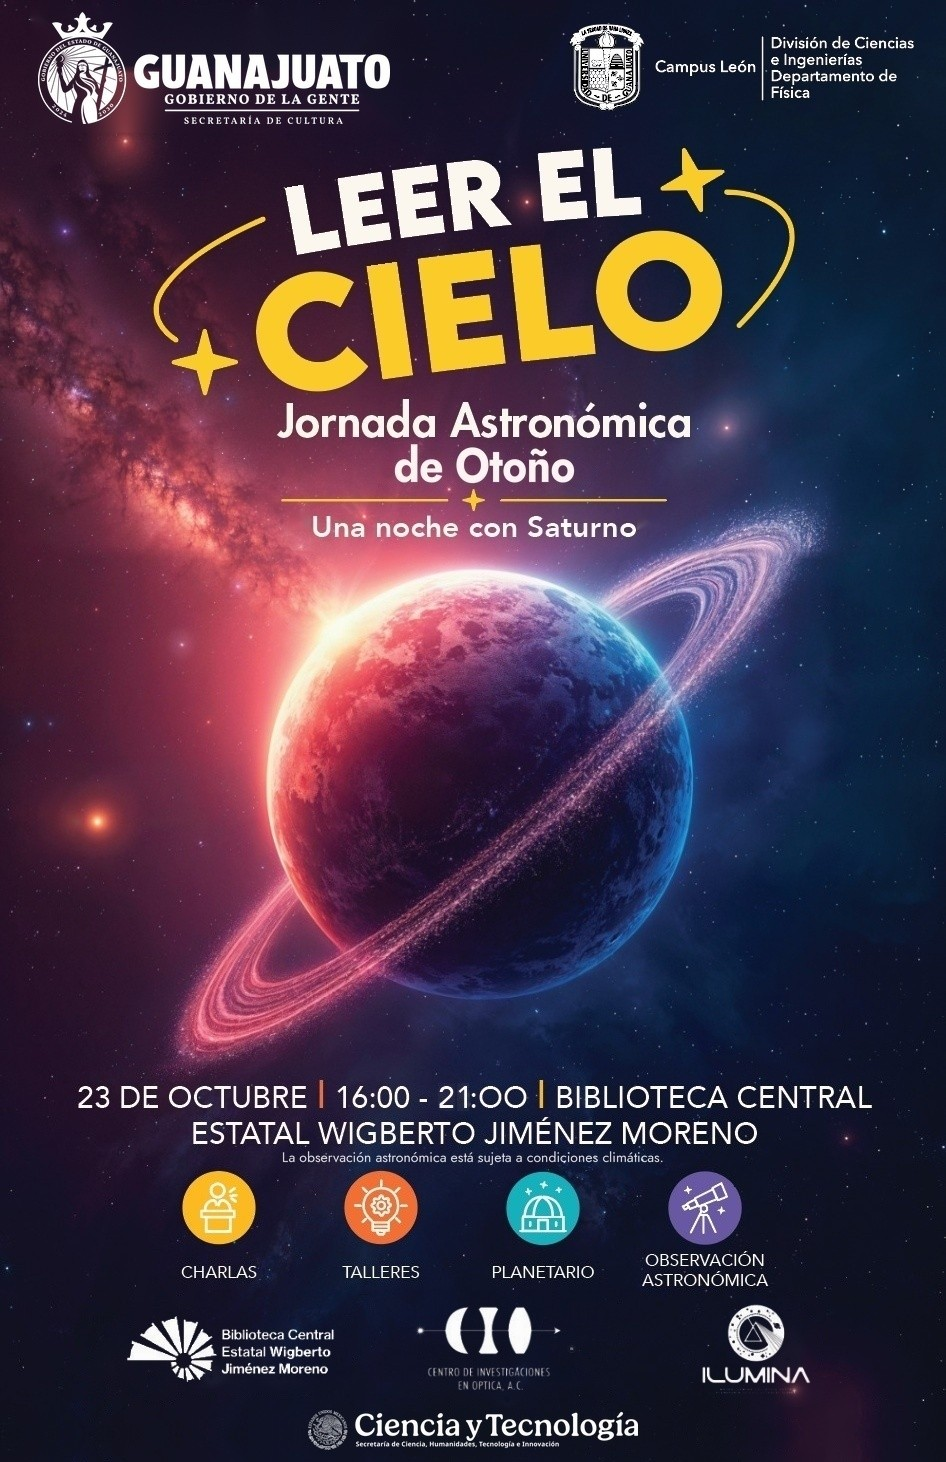
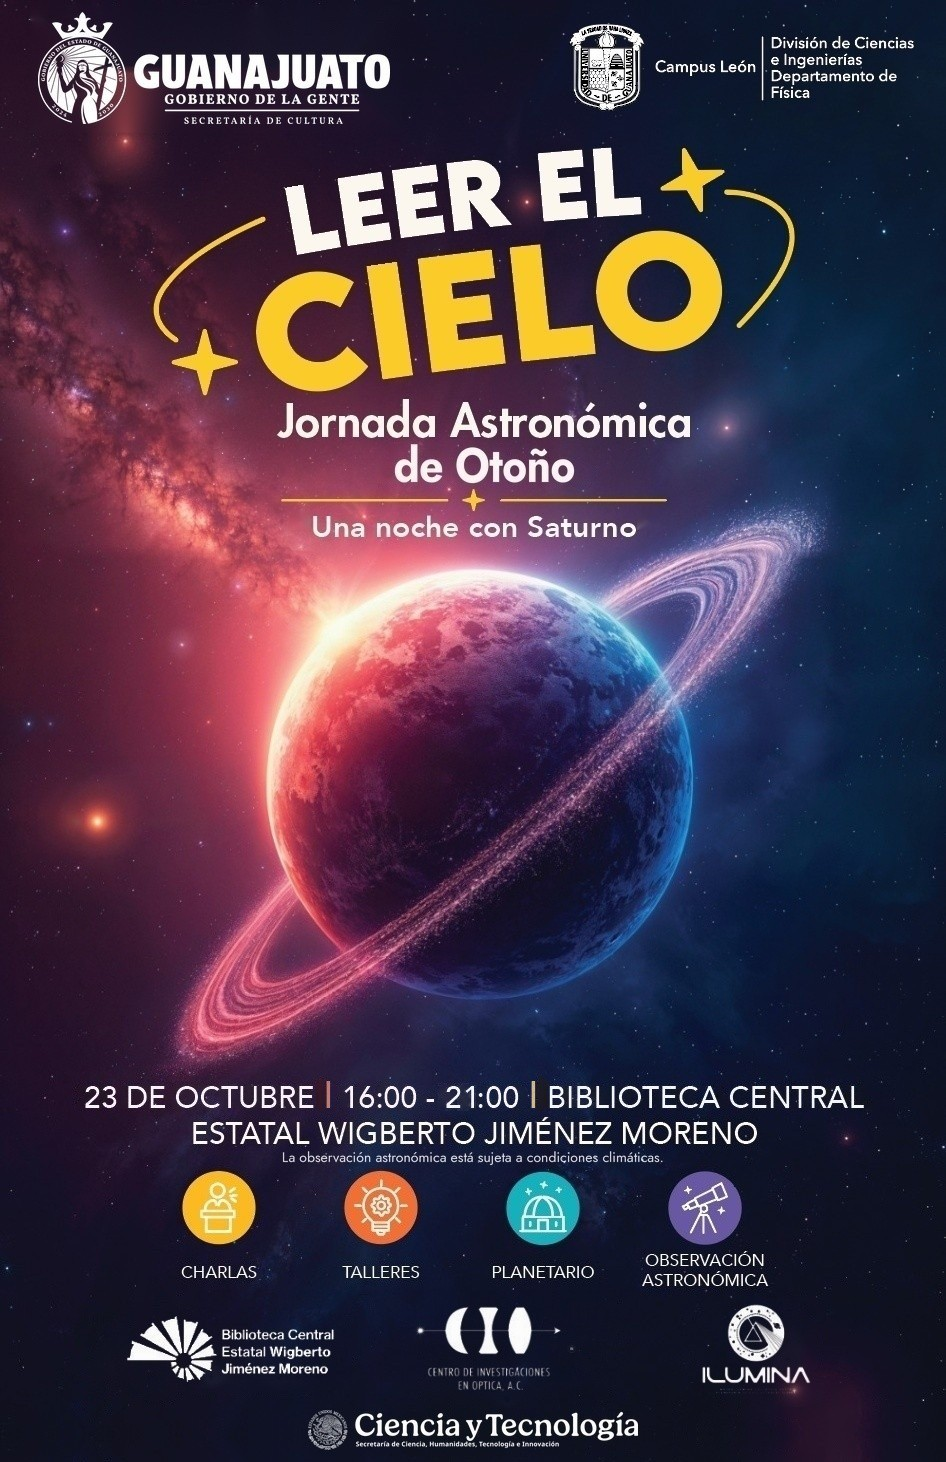
Correcciones ortográficas y de redacción; póster de Otoño 2026 con "21:00"
- Otoño 2026: "sino también de otras ciencias", puntuación en la charla de Saturno,
  "alberga el instrumento", "cuyas propiedades aprenderás", "estudiantes de la DCI-UG",
  "Sala Infantil".
- Marzo 2025: "División de Ciencias e Ingenierías" (decía "Departamento").
- Octubre 2025: "dirigida al público general". Marzo 2024: "Exestación del Ferrocarril".
- Póster Otoño 2026: el horario decía "21:OO" (con letras O); ahora "21:00".

Claude-Session: https://claude.ai/code/session_016sucewvtQMTiaJgYjAcCVV

Changed region(s): [[0.092, 0.7387, 0.9197, 0.7695]]

diff --git a/jornadas/otono-2026/jornada.html b/jornadas/otono-2026/jornada.html
@@ -48,7 +48,7 @@
         <div class="card">
           <span class="tag c-orange">Taller</span>
           <h3>Nuestro lugar en el universo y el mapa 3D más grande del cosmos</h3>
-          <p>Descubre cómo el Instrumento Espectroscópico de Energía Oscura (DESI) mapea millones de galaxias para estudiar la expansión del universo. Además, armaremos un modelo del Telescopio Mayall que alberga al instrumento DESI.</p>
+          <p>Descubre cómo el Instrumento Espectroscópico de Energía Oscura (DESI) mapea millones de galaxias para estudiar la expansión del universo. Además, armaremos un modelo del Telescopio Mayall que alberga el instrumento DESI.</p>
           <p class="who"><b>Imparten: Dr. Gustavo Niz Quevedo y Dra. Alma González</b><br>División de Ciencias e Ingenierías, Universidad de Guanajuato</p>
           <p class="meta">Dirigido a jóvenes de 14 a 16 años.</p>
         </div>
@@ -61,7 +61,7 @@
           <p>Taller de astronomía para infancias pequeñitas de 4 a 10 años.</p>
           <!-- Descripción pendiente: agregar aquí cuando esté lista -->
           <p class="who"><b>Imparte: personal de la Biblioteca Central Estatal Wigberto Jiménez Moreno</b></p>
-          <p class="where">Sala infantil</p>
+          <p class="where">Sala Infantil</p>
           <p class="meta">Cupo limitado a 20 participantes por sesión.</p>
         </div>
       </li>
@@ -70,7 +70,7 @@
         <div class="card card-feature">
           <span class="tag c-yellow">Charla</span>
           <h3>Los anillos de Saturno</h3>
-          <p>Saturno es un planeta gaseoso que siempre ha fascinado por sus anillos. A lo largo de los siglos, la investigación sobre este planeta y sus anillos ha contribuido al desarrollo no solo de la astronomía, sino de otras ciencias. En octubre Saturno estará en oposición al Sol y será visible toda la noche, además de una conjunción con la Luna el día 24. En esta plática abordaremos lo que sabemos de Saturno y sus anillos.</p>
+          <p>Saturno es un planeta gaseoso que siempre ha fascinado por sus anillos. A lo largo de los siglos, la investigación sobre este planeta y sus anillos ha contribuido al desarrollo no solo de la astronomía, sino también de otras ciencias. En octubre Saturno estará en oposición al Sol y será visible toda la noche; además, tendrá una conjunción con la Luna el día 24. En esta plática abordaremos lo que sabemos de Saturno y sus anillos.</p>
           <p class="who"><b>Imparte: Dr. Alejandro Gil-Villegas</b><br>División de Ciencias e Ingenierías, Universidad de Guanajuato, Campus León</p>
           <p class="where">Sala José Vasconcelos</p>
         </div>
@@ -96,13 +96,13 @@
         <span class="num c-yellow">1</span>
         <h3>Aprende jugando: Lotería Cósmica</h3>
         <p>El típico juego de lotería con una temática alusiva al cosmos: tipos de estrellas, galaxias, telescopios y personajes ilustres de la astronomía. Aprende mientras intentas ser el primero en gritar «¡Cosmos!» para ganar.</p>
-        <p class="meta">Coordinan: estudiantes DCI-UG · Cupo limitado a 20 personas · Niñas y niños acompañados de un adulto.</p>
+        <p class="meta">Coordinan: estudiantes de la DCI-UG · Cupo limitado a 20 personas · Niñas y niños acompañados de un adulto.</p>
       </article>
       <article class="card">
         <span class="num c-orange">2</span>
         <h3>Aprende jugando: Agujeros negros y agujeros de gusano</h3>
-        <p>Una variante de serpientes y escaleras sobre agujeros negros y agujeros de gusano. Cada casilla tiene un objeto diferente del que aprenderás sus propiedades mientras intentas llegar primero al final del recorrido.</p>
-        <p class="meta">Coordinan: estudiantes DCI-UG · Cupo limitado a 20 personas · Niñas y niños acompañados de un adulto.</p>
+        <p>Una variante de serpientes y escaleras sobre agujeros negros y agujeros de gusano. Cada casilla tiene un objeto diferente, cuyas propiedades aprenderás mientras intentas llegar primero al final del recorrido.</p>
+        <p class="meta">Coordinan: estudiantes de la DCI-UG · Cupo limitado a 20 personas · Niñas y niños acompañados de un adulto.</p>
       </article>
       <article class="card">
         <span class="num c-teal">3</span>
@@ -113,7 +113,7 @@
         <span class="num c-purple">4</span>
         <h3>Planetario infantil</h3>
         <p>Las niñas y los niños podrán ver y maravillarse con diferentes objetos astronómicos, así como conocer sus características.</p>
-        <p class="meta">Coordinan: estudiantes DCI-UG.</p>
+        <p class="meta">Coordinan: estudiantes de la DCI-UG.</p>
       </article>
     </div>
   </section>

diff --git a/jornadas/marzo-2025/jornada.html b/jornadas/marzo-2025/jornada.html
@@ -41,7 +41,7 @@
           <span class="tag c-orange">Charla-taller</span>
           <h3>Eclipse lunar: ¿Quién se comió a la Luna?</h3>
           <p>Charla-taller para niños y niñas.</p>
-          <p class="who"><b>Imparte: Dr. Francisco Linares</b><br>Universidad Michoacana de San Nicolás de Hidalgo · Departamento de Ciencias e Ingenierías de la UG, Plantel León</p>
+          <p class="who"><b>Imparte: Dr. Francisco Linares</b><br>Universidad Michoacana de San Nicolás de Hidalgo · División de Ciencias e Ingenierías de la UG, Plantel León</p>
         </div>
       </li>
       <li>
@@ -59,7 +59,7 @@
           <span class="tag c-orange">Taller</span>
           <h3>El come galletas y las fases lunares</h3>
           <p>Taller para niños y niñas a partir de 5 años.</p>
-          <p class="who"><b>Departamento de Ciencias e Ingenierías de la UG, Plantel León</b></p>
+          <p class="who"><b>División de Ciencias e Ingenierías de la UG, Plantel León</b></p>
         </div>
       </li>
       <li>
@@ -68,7 +68,7 @@
           <span class="tag c-orange">Taller</span>
           <h3>Leer el cielo con Stellarium</h3>
           <p>Taller para chicos y chicas a partir de 12 años que cuenten con un celular. Menores de esta edad, acompañados de mamá y/o papá.</p>
-          <p class="who"><b>Imparte: Dr. Alberto Diez Tejedor</b><br>Departamento de Ciencias e Ingenierías de la UG, Plantel León</p>
+          <p class="who"><b>Imparte: Dr. Alberto Diez Tejedor</b><br>División de Ciencias e Ingenierías de la UG, Plantel León</p>
           <p class="meta">Duración: 2 horas · Cupo limitado a 10 personas.</p>
         </div>
       </li>
@@ -78,7 +78,7 @@
           <span class="tag c-yellow">Conferencia</span>
           <h3>La Luna, los eclipses y algunas curiosidades del asteroide 2024 YR4</h3>
           <p>Conferencia para todo público.</p>
-          <p class="who"><b>Imparte: Dr. Oscar Loaiza</b><br>Departamento de Ciencias e Ingenierías de la UG, Plantel León</p>
+          <p class="who"><b>Imparte: Dr. Oscar Loaiza</b><br>División de Ciencias e Ingenierías de la UG, Plantel León</p>
         </div>
       </li>
       <li>
@@ -87,7 +87,7 @@
           <span class="tag c-purple">Observación</span>
           <h3>Observación astronómica con los telescopios de la Biblioteca</h3>
           <p>Actividades simultáneas: juegos científicos y planetario infantil. Para todo público.</p>
-          <p class="who"><b>Departamento de Ciencias e Ingenierías de la UG, Plantel León</b></p>
+          <p class="who"><b>División de Ciencias e Ingenierías de la UG, Plantel León</b></p>
           <p class="where">Terraza Sur</p>
         </div>
       </li>

diff --git a/jornadas/octubre-2025/jornada.html b/jornadas/octubre-2025/jornada.html
@@ -62,7 +62,7 @@
           <h3>Del suelo a las estrellas: los retos de la minería espacial</h3>
           <p class="who"><b>Presenta: Trish Luna</b><br>Astrofísicos en Acción</p>
           <p class="where">Sala José Vasconcelos</p>
-          <p class="meta">Conferencia dirigida a público general.</p>
+          <p class="meta">Conferencia dirigida al público general.</p>
         </div>
       </li>
       <li>

diff --git a/jornadas/marzo-2024/jornada.html b/jornadas/marzo-2024/jornada.html
@@ -12,7 +12,7 @@
       <dl class="facts">
         <div><dt>Fechas</dt><dd>Del 13 al 15 de marzo de 2024</dd></div>
         <div><dt>Ciudad</dt><dd>Dolores Hidalgo, Gto.</dd></div>
-        <div><dt>Lugar</dt><dd>Biblioteca Esperanza Zambrano · Ex estación del Ferrocarril</dd></div>
+        <div><dt>Lugar</dt><dd>Biblioteca Esperanza Zambrano · Exestación del Ferrocarril</dd></div>
       </dl>
     </div>
 
